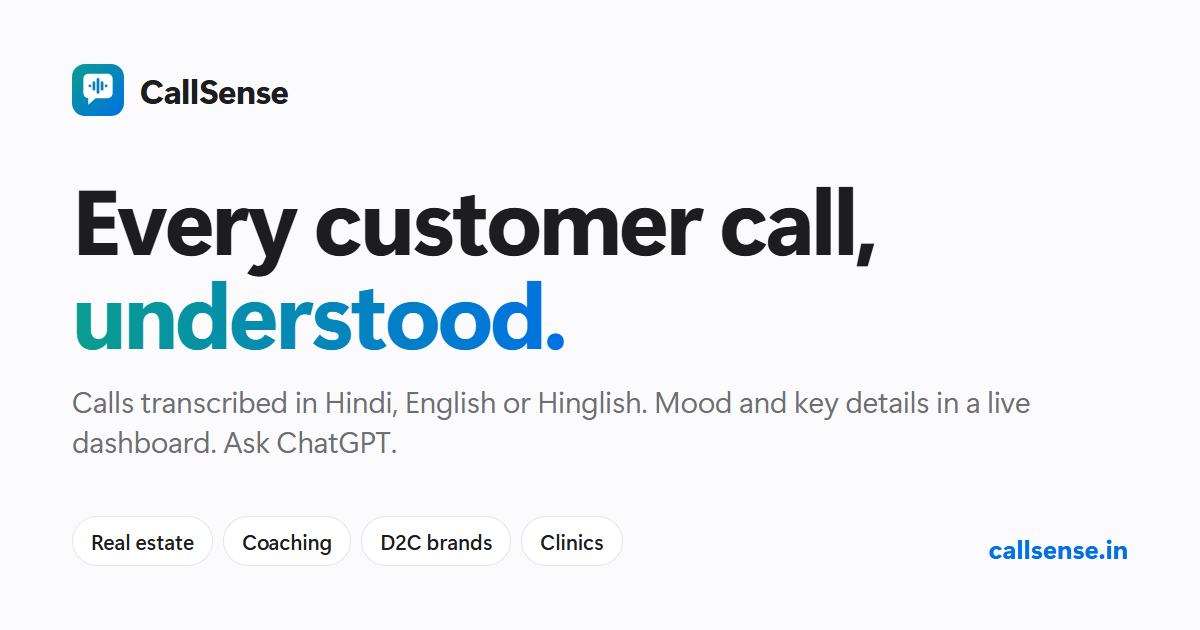
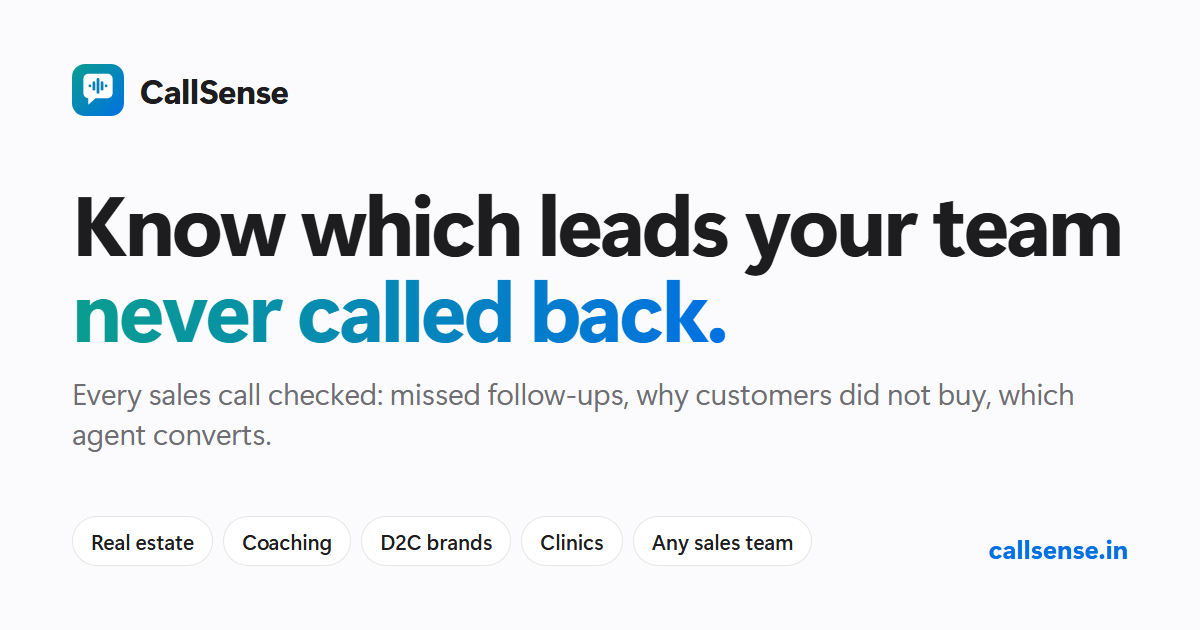
SEO/AEO: new share image, llms.txt summary for the sector-agnostic offer

Changed region(s): [[0.0617, 0.2714, 0.9558, 0.573], [0.0617, 0.6032, 0.8942, 0.7238], [0.5242, 0.8444, 0.6783, 0.8746]]

diff --git a/public/index.html b/public/index.html
@@ -17,7 +17,7 @@
   <meta property="og:image" content="https://callsense.in/og-image.png">
   <meta property="og:image:width" content="1200">
   <meta property="og:image:height" content="630">
-  <meta property="og:image:alt" content="CallSense: every customer call, understood">
+  <meta property="og:image:alt" content="CallSense: know which leads your team never called back">
   <meta name="twitter:card" content="summary_large_image">
   <meta name="twitter:title" content="Know which leads your team never called back | CallSense">
   <meta name="twitter:description" content="Every sales call checked: which leads were never called back and why customers didn't buy. Ask ChatGPT or Claude about any call.">
